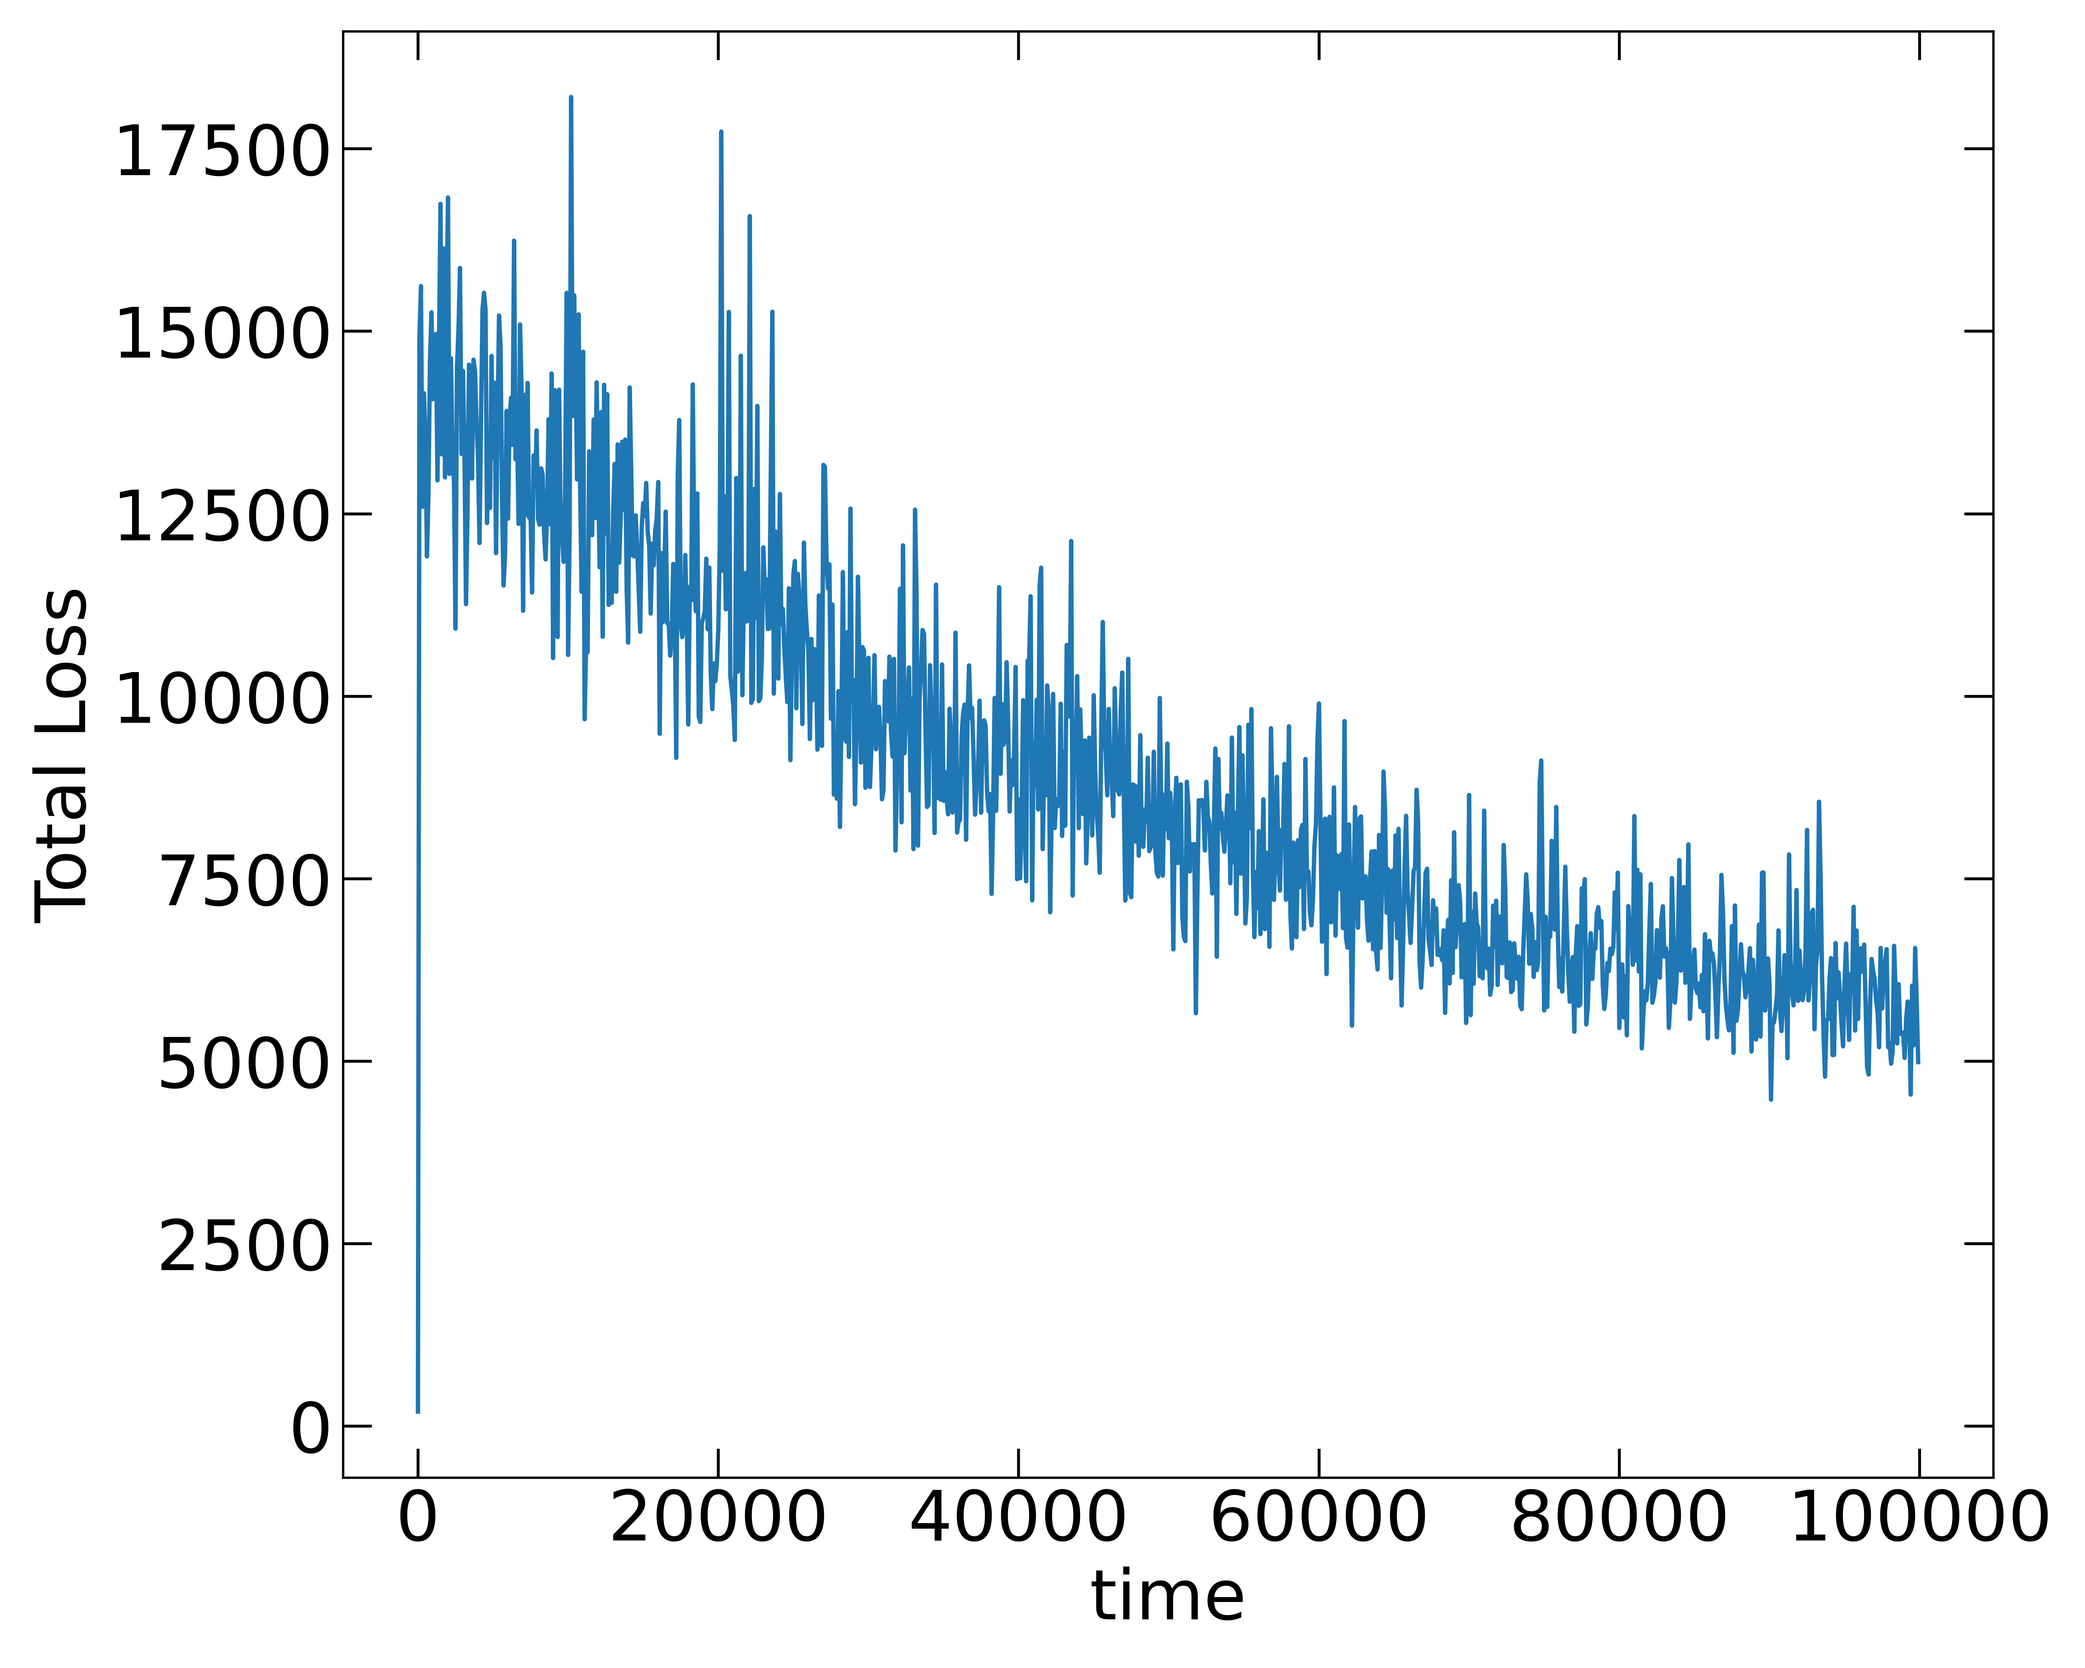
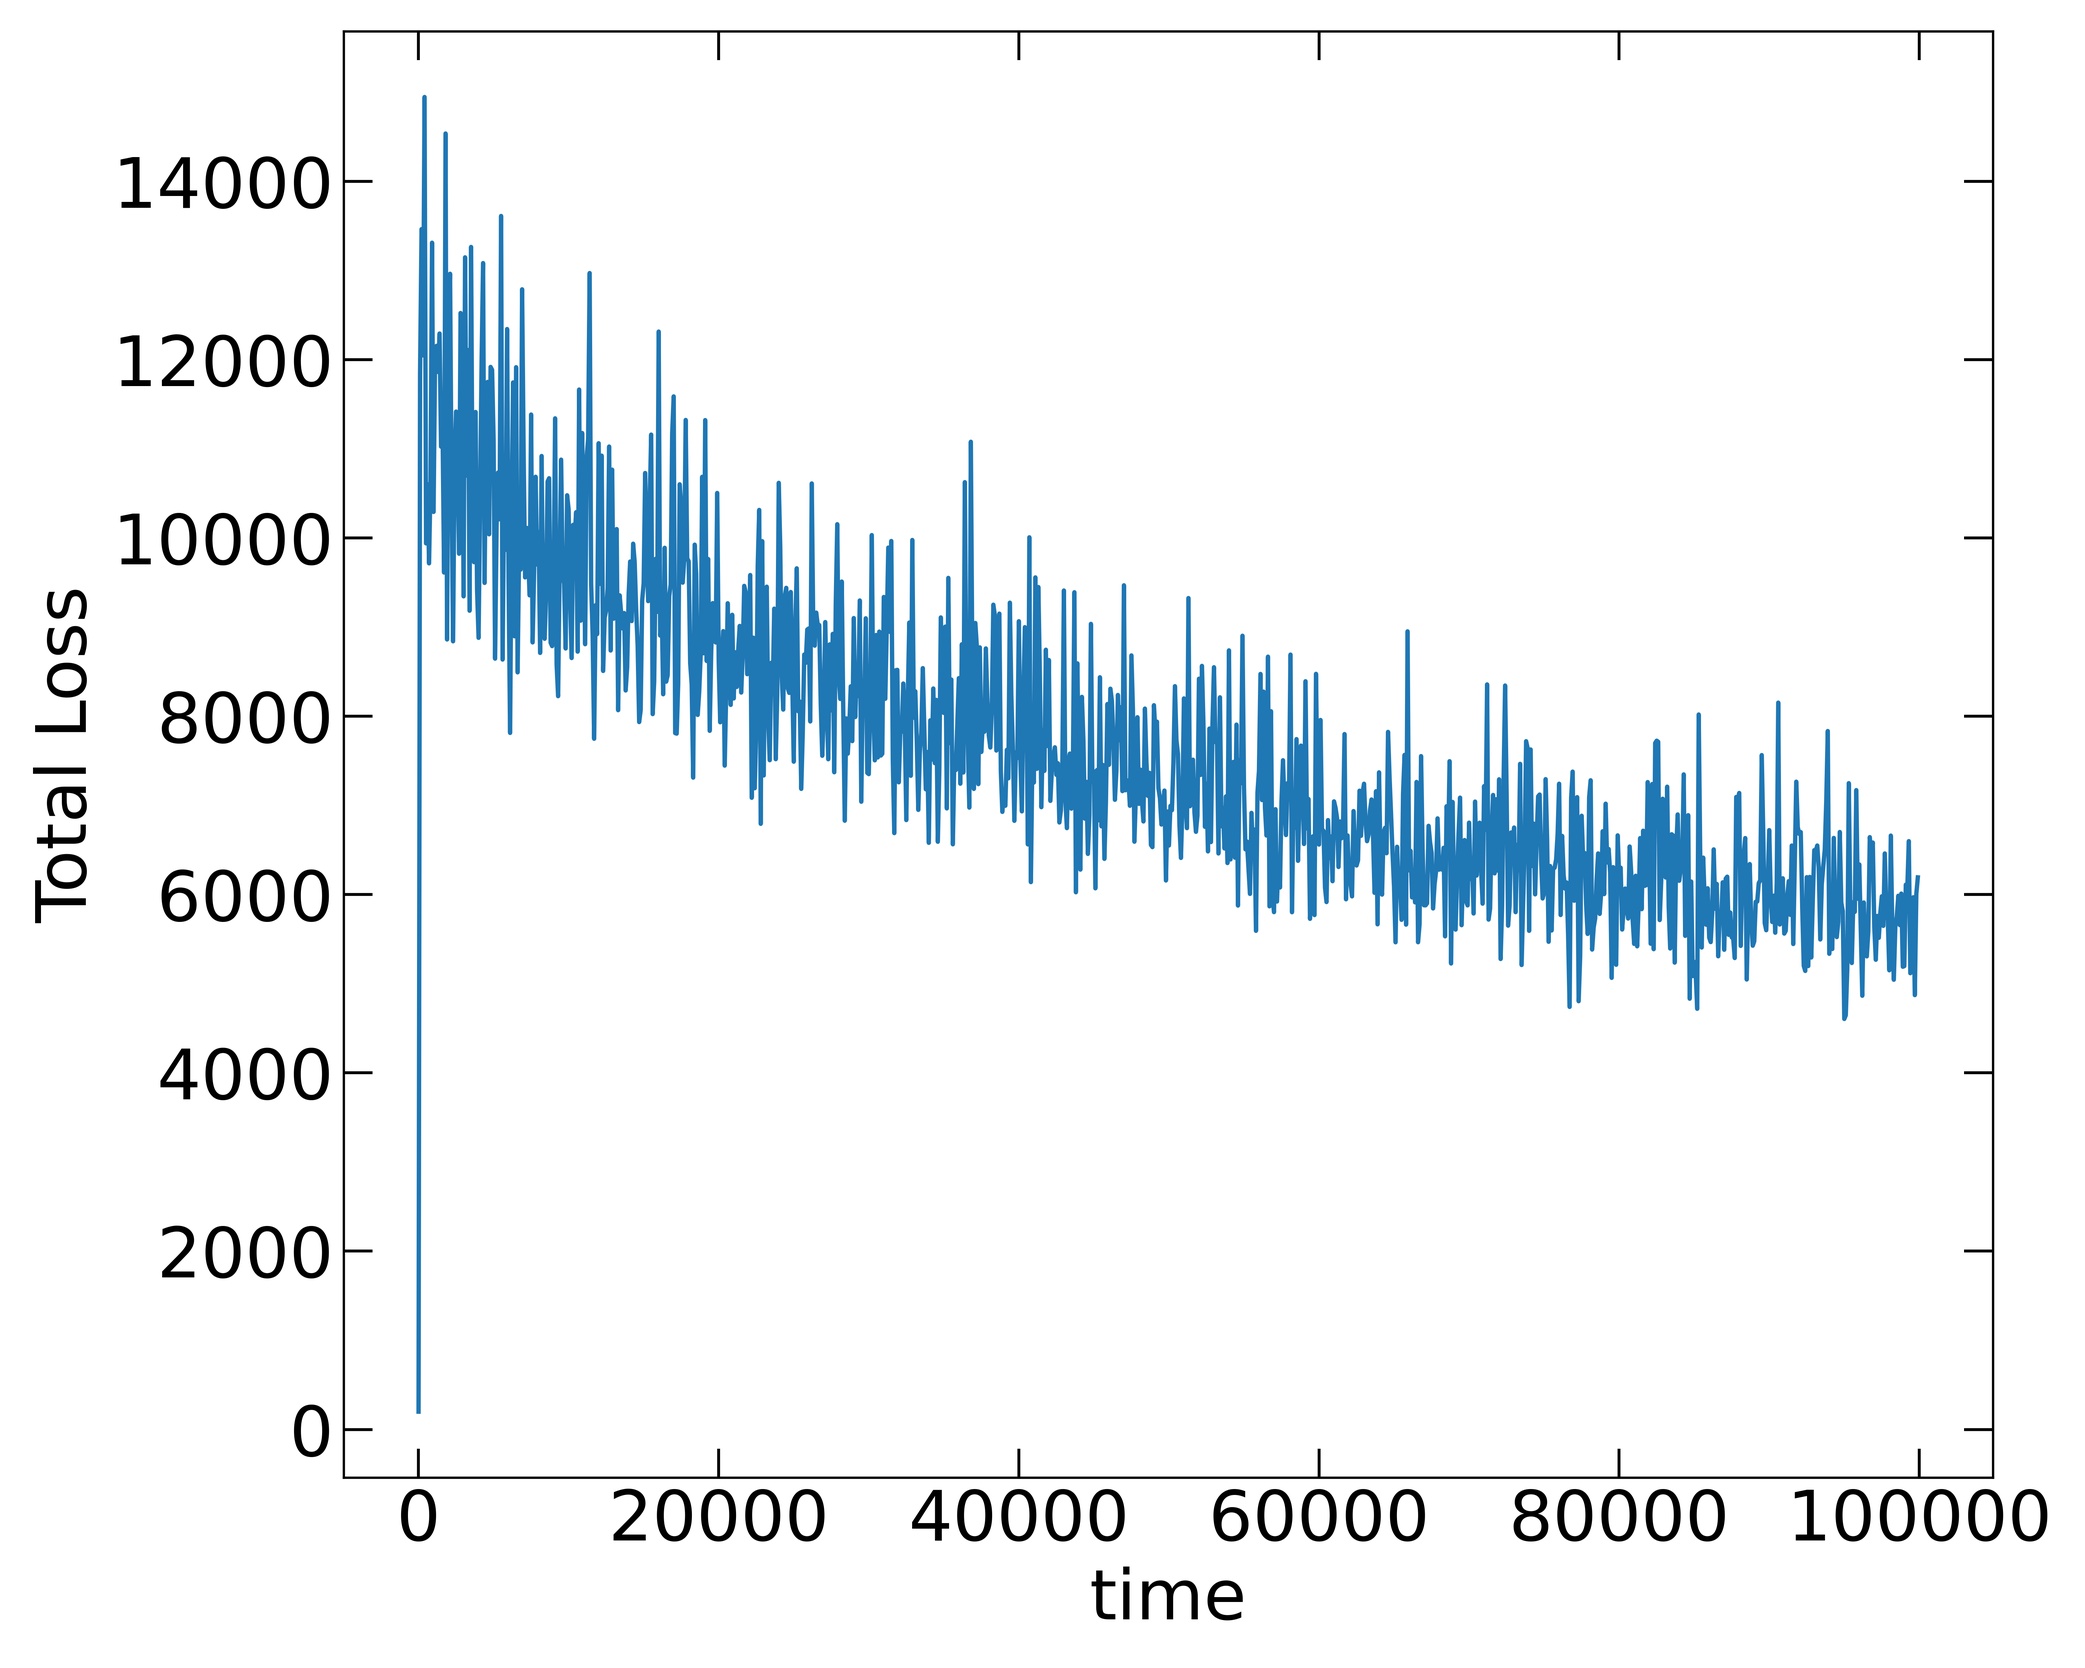
added version, where dumm walkers are excluded

diff --git a/python/AC_exclude_dumm.py b/python/AC_exclude_dumm.py
@@ -146,10 +146,10 @@ class Environment():
                 self.record_current[self.walker_position] += delta_x/(0.1*self.simulation_time)
             # punish the walker if it crosses the periodic boundary
             if self.walker_position + delta_x > self.lattice_size - 1:
-                self.walker_position = self.walker_position + delta_x - self.lattice_size + 1
+                self.walker_position = self.walker_position + delta_x - self.lattice_size
                 reward = -100
             if self.walker_position + delta_x < 0:
-                self.walker_position = self.walker_position + delta_x + self.lattice_size - 1
+                self.walker_position = self.walker_position + delta_x + self.lattice_size
                 reward = -100
             else: 
                 self.walker_position = self.walker_position + delta_x
@@ -194,6 +194,7 @@ if __name__ == '__main__':
     pdf = np.zeros(L)
     current = np.zeros(L)
 
+    dumm_walkers = 0
     for run in range(0,N_RUNS):
         print("Run", run + 1)
 
@@ -205,23 +206,42 @@ if __name__ == '__main__':
             total_score[timestep] += score[timestep] / N_RUNS
             total_loss[timestep] += loss[timestep] / N_RUNS
             
-        for x in range(0,L):
-            pdf[x] += pdf_per_run[x] / N_RUNS
-            current[x] += current_per_run[x] / N_RUNS
+        # see if the derivative of the end tail of the score curve is positive
+        # if yes, then the RW learned to avoid the periodic boundary
+        score_growing = False
+        delta = 0
+        for timestep in range(n_of_time_snapshots - 10, n_of_time_snapshots):
+            delta += score[timestep] - score[timestep - 1] # should be positive
+        if (delta > 0):
+            score_growing = True
+        else:
+            dumm_walkers += 1
+       
+        # record pdf and current only if the RW learned to do the thing  
+        if(score_growing):
+            for x in range(0,L):
+                pdf[x] += pdf_per_run[x] 
+                current[x] += current_per_run[x] 
 
     print("Python execution time: %s seconds " % (time.time() - start_time))
+    print("Number of walkers that haven't figured it out: ", dumm_walkers)
+    
+    # normalise pdf and current arrays
+    for x in range(0,L):
+        pdf[x] /= (N_RUNS - dumm_walkers)
+        current[x]  /= (N_RUNS - dumm_walkers)
 
     # record text output file
     shift = int(L/2)
-    x_axis = np.arrange(0,L)
+    x_axis = np.arange(0,L)
     x_axis_shifted = np.arange(-shift,shift)
     pdf_shifted = np.roll(pdf,shift)
     current_shifted = np.roll(current,shift) 
-    output_pdf_current = "AC_output_total/pdf_and_current_L" + str(L) + "_TMAX" + str(T_MAX) + "_UPD" + str(T_UPDATE) + "_NRUNS" + str(N_RUNS) +"_lr" + str(lr) +  ".txt"
+    output_pdf_current = "AC_output_exclude/pdf_and_current_L" + str(L) + "_TMAX" + str(T_MAX) + "_UPD" + str(T_UPDATE) + "_NRUNS" + str(N_RUNS) +"_lr" + str(lr) +  ".txt"
     np.savetxt(output_pdf_current, np.c_[x_axis,pdf,current, pdf_shifted, current_shifted])
 
     # plot reward vs time
-    tot_reward_filename = "AC_output_total/total_reward_L" + str(L) + "_TMAX" + str(T_MAX) + "_UPD" + str(T_UPDATE) + "_NRUNS" + str(N_RUNS) +"_lr" + str(lr) +  ".png"
+    tot_reward_filename = "AC_output_exclude/total_reward_L" + str(L) + "_TMAX" + str(T_MAX) + "_UPD" + str(T_UPDATE) + "_NRUNS" + str(N_RUNS) +"_lr" + str(lr) +  ".png"
     plt.figure(figsize=(10,8))
     axes = plt.gca()
     plt.xlabel("time", fontsize=24)
@@ -235,7 +255,7 @@ if __name__ == '__main__':
     #plt.show()
     
     # plot loss vs time
-    tot_loss_filename = "AC_output_total/total_loss_L" + str(L) + "_TMAX" + str(T_MAX) + "_UPD" + str(T_UPDATE) + "_NRUNS" + str(N_RUNS) +"_lr" + str(lr) +  ".png"
+    tot_loss_filename = "AC_output_exclude/total_loss_L" + str(L) + "_TMAX" + str(T_MAX) + "_UPD" + str(T_UPDATE) + "_NRUNS" + str(N_RUNS) +"_lr" + str(lr) +  ".png"
     plt.figure(figsize=(10,8))
     axes = plt.gca()
     plt.xlabel("time", fontsize=24)
@@ -249,7 +269,7 @@ if __name__ == '__main__':
     #plt.show()
     
     # plot pdf
-    pdf_filename = "AC_output_total/PDF_L" + str(L) + "_TMAX" + str(T_MAX) + "_UPD" + str(T_UPDATE) + "_NRUNS" + str(N_RUNS) +"_lr" + str(lr) +  ".png"
+    pdf_filename = "AC_output_exclude/PDF_L" + str(L) + "_TMAX" + str(T_MAX) + "_UPD" + str(T_UPDATE) + "_NRUNS" + str(N_RUNS) +"_lr" + str(lr) +  ".png"
     plt.figure(figsize=(10,8))
     axes = plt.gca()
     plt.xlabel("X", fontsize=24)
@@ -262,7 +282,7 @@ if __name__ == '__main__':
     #plt.show()
     
      # plot pdf shifted
-    pdf_shifted_filename = "AC_output_total/PDF_shifted_L" + str(L) + "_TMAX" + str(T_MAX) + "_UPD" + str(T_UPDATE) + "_NRUNS" + str(N_RUNS) +"_lr" + str(lr) +  ".png"
+    pdf_shifted_filename = "AC_output_exclude/PDF_shifted_L" + str(L) + "_TMAX" + str(T_MAX) + "_UPD" + str(T_UPDATE) + "_NRUNS" + str(N_RUNS) +"_lr" + str(lr) +  ".png"
     plt.figure(figsize=(10,8))
     axes = plt.gca()
     plt.xlabel("X", fontsize=24)
@@ -275,7 +295,7 @@ if __name__ == '__main__':
     #plt.show()
     
     # plot current shifted
-    current_filename = "AC_output_total/Current_L" + str(L) + "_TMAX" + str(T_MAX) + "_UPD" + str(T_UPDATE) + "_NRUNS" + str(N_RUNS) +"_lr" + str(lr) +  ".png"
+    current_filename = "AC_output_exclude/Current_L" + str(L) + "_TMAX" + str(T_MAX) + "_UPD" + str(T_UPDATE) + "_NRUNS" + str(N_RUNS) +"_lr" + str(lr) +  ".png"
     plt.figure(figsize=(10,8))
     axes = plt.gca()
     plt.xlabel("X", fontsize=24)

diff --git a/python/RW_w_reflecting_bc_Dirichlet.py b/python/RW_w_reflecting_bc_Dirichlet.py
@@ -1,0 +1,99 @@
+import sys
+import time
+import numpy as np
+import random 
+
+import matplotlib.pyplot as plt 
+
+# this is where the simulation will be hapenning
+class Environment():
+
+    def __init__(self, L, T_MAX):  
+        self.lattice_size = L
+        self.simulation_time = T_MAX
+        self.walker_position = random.randint(0, L-1) # pick random lattice site
+        self.flip_coin = random.randint(0,1)
+        # record the data
+        self.record_pdf = np.zeros(self.lattice_size)
+        self.record_current = np.zeros(self.lattice_size)
+
+    def run(self):
+        for t_step in range(self.simulation_time):
+            delta_x = 0
+            self.flip_coin = random.randint(0,1)
+            if self.flip_coin == 0: # jump to the right
+                delta_x = 1
+            else:                   # jump to the left
+                delta_x = -1
+     
+            # impose Dirichlet reflective boundary conditions
+            if self.walker_position + delta_x > self.lattice_size - 1 or self.walker_position + delta_x < 0:
+                delta_x = 0
+            
+            self.record_current[self.walker_position] += delta_x/(self.simulation_time)
+            self.walker_position = self.walker_position + delta_x
+            self.record_pdf[self.walker_position] += 1.0/(self.simulation_time)
+
+        return  self.record_pdf, self.record_current
+
+
+# our main
+if __name__ == '__main__':
+    start_time = time.time() # time your simulation
+    L = 20           # lattice size
+    T_MAX = 10000000    # total number of steps
+    pdf = []
+    current = []
+    
+    # run simulation
+    simulation = Environment(L, T_MAX)
+    pdf, current = simulation.run()
+    print("Python execution time: %s seconds " % (time.time() - start_time))
+
+    # record text output file
+    shift = int(L/2)
+    x_axis = np.arange(0,L)
+    x_axis_shifted = np.arange(-shift,shift)
+    pdf_and_current_filename = "RW_Refl_output/PDF_Dirichlet_Curret_L" + str(L) + "_TMAX" + str(T_MAX) + ".txt"
+    np.savetxt(pdf_and_current_filename, np.c_[x_axis,pdf,current])
+
+    # plot pdf 
+    pdf_filename = "RW_Refl_output/PDF_Dirichlet_L" + str(L) + "_TMAX" + str(T_MAX) + ".png"
+    plt.figure(figsize=(10,8))
+    axes = plt.gca()
+    plt.xlabel("X", fontsize=24)
+    plt.ylabel("PDF", fontsize=24)
+    plt.tick_params(axis='both', which='major', direction = 'in', length = 10 , 
+        width = 1, labelsize=24, bottom = True, top = True, left = True, right = True)
+    plt.plot(pdf, linestyle='--', marker='o', color='k')
+    plt.tight_layout()
+    plt.savefig(pdf_filename, format="png", dpi=600)
+    #plt.show()
+    
+    # plot pdf shifted
+    pdf_shifted_filename = "RW_Refl_output/PDF_Dirichlet_shifted_L" + str(L) + "_TMAX" + str(T_MAX) + ".png"
+    plt.figure(figsize=(10,8))
+    axes = plt.gca()
+    plt.xlabel("X", fontsize=24)
+    plt.ylabel("PDF", fontsize=24)
+    plt.tick_params(axis='both', which='major', direction = 'in', length = 10 , 
+        width = 1, labelsize=24, bottom = True, top = True, left = True, right = True)
+    pdf = np.roll(pdf,shift) 
+    plt.plot(x_axis_shifted, pdf, linestyle='--', marker='o', color='k')
+    plt.tight_layout()
+    plt.savefig(pdf_shifted_filename, format="png", dpi=600)
+    #plt.show()
+    
+    # plot current shifted
+    current_filename = "RW_Refl_output/Current_Dirichlet_shifted_L" + str(L) + "_TMAX" + str(T_MAX) + ".png"
+    plt.figure(figsize=(10,8))
+    axes = plt.gca()
+    plt.xlabel("X", fontsize=24)
+    plt.ylabel("Current", fontsize=24)
+    plt.tick_params(axis='both', which='major', direction = 'in', length = 10 , 
+        width = 1, labelsize=24, bottom = True, top = True, left = True, right = True)
+    current = np.roll(current,shift) 
+    plt.plot(x_axis_shifted,current, linestyle='--', marker='o', color='k')
+    plt.tight_layout()
+    plt.savefig(current_filename, format="png", dpi=600)
+    #plt.show()

diff --git a/python/RW_w_reflecting_bc_Neumann.py b/python/RW_w_reflecting_bc_Neumann.py
@@ -1,0 +1,99 @@
+import sys
+import time
+import numpy as np
+import random 
+
+import matplotlib.pyplot as plt 
+
+# this is where the simulation will be hapenning
+class Environment():
+
+    def __init__(self, L, T_MAX):  
+        self.lattice_size = L
+        self.simulation_time = T_MAX
+        self.walker_position = random.randint(0, L-1) # pick random lattice site
+        self.flip_coin = random.randint(0,1)
+        # record the data
+        self.record_pdf = np.zeros(self.lattice_size)
+        self.record_current = np.zeros(self.lattice_size)
+
+    def run(self):
+        for t_step in range(self.simulation_time):
+            delta_x = 0
+            self.flip_coin = random.randint(0,1)
+            if self.flip_coin == 0: # jump to the right
+                delta_x = 1
+            else:                   # jump to the left
+                delta_x = -1
+     
+            # impose reflective boundary conditions
+            if self.walker_position + delta_x > self.lattice_size - 1 or self.walker_position + delta_x < 0:
+                delta_x = -delta_x
+            
+            self.record_current[self.walker_position] += delta_x/(self.simulation_time)
+            self.walker_position = self.walker_position + delta_x
+            self.record_pdf[self.walker_position] += 1.0/(self.simulation_time)
+
+        return  self.record_pdf, self.record_current
+
+
+# our main
+if __name__ == '__main__':
+    start_time = time.time() # time your simulation
+    L = 20           # lattice size
+    T_MAX = 10000000    # total number of steps
+    pdf = []
+    current = []
+    
+    # run simulation
+    simulation = Environment(L, T_MAX)
+    pdf, current = simulation.run()
+    print("Python execution time: %s seconds " % (time.time() - start_time))
+
+    # record text output file
+    shift = int(L/2)
+    x_axis = np.arrange(0,L)
+    x_axis_shifted = np.arange(-shift,shift)
+    pdf_and_current_filename = "RW_Refl_output/PDF_Curret_L" + str(L) + "_TMAX" + str(T_MAX) + ".txt"
+    np.savetxt(pdf_and_current_filename, np.c_[x_axis,pdf,current])
+
+    # plot pdf 
+    pdf_filename = "RW_Refl_output/PDF_L" + str(L) + "_TMAX" + str(T_MAX) + ".png"
+    plt.figure(figsize=(10,8))
+    axes = plt.gca()
+    plt.xlabel("X", fontsize=24)
+    plt.ylabel("PDF", fontsize=24)
+    plt.tick_params(axis='both', which='major', direction = 'in', length = 10 , 
+        width = 1, labelsize=24, bottom = True, top = True, left = True, right = True)
+    plt.plot(pdf, linestyle='--', marker='o', color='k')
+    plt.tight_layout()
+    plt.savefig(pdf_filename, format="png", dpi=600)
+    #plt.show()
+    
+    # plot pdf shifted
+    pdf_shifted_filename = "RW_Refl_output/PDF_shifted_L" + str(L) + "_TMAX" + str(T_MAX) + ".png"
+    plt.figure(figsize=(10,8))
+    axes = plt.gca()
+    plt.xlabel("X", fontsize=24)
+    plt.ylabel("PDF", fontsize=24)
+    plt.tick_params(axis='both', which='major', direction = 'in', length = 10 , 
+        width = 1, labelsize=24, bottom = True, top = True, left = True, right = True)
+    pdf = np.roll(pdf,shift) 
+    plt.plot(x_axis_shifted, pdf, linestyle='--', marker='o', color='k')
+    plt.tight_layout()
+    plt.savefig(pdf_shifted_filename, format="png", dpi=600)
+    #plt.show()
+    
+    # plot current shifted
+    current_filename = "RW_Refl_output/Current_shifted_L" + str(L) + "_TMAX" + str(T_MAX) + ".png"
+    plt.figure(figsize=(10,8))
+    axes = plt.gca()
+    plt.xlabel("X", fontsize=24)
+    plt.ylabel("Current", fontsize=24)
+    plt.tick_params(axis='both', which='major', direction = 'in', length = 10 , 
+        width = 1, labelsize=24, bottom = True, top = True, left = True, right = True)
+    current = np.roll(current,shift) 
+    plt.plot(x_axis_shifted,current, linestyle='--', marker='o', color='k')
+    plt.tight_layout()
+    plt.savefig(current_filename, format="png", dpi=600)
+    #plt.show()
